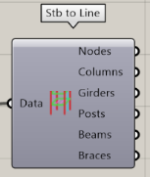
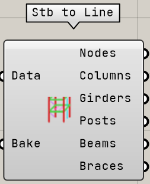
Update Geometry page

diff --git a/website/docs/Component/Geometry.md b/website/docs/Component/Geometry.md
@@ -3,7 +3,7 @@ id: Geometry
 title: Geometry
 ---
 
-読み込んだ STB データから部材を可視化するコンポーネントのカテゴリ
+読み込んだ STB データから部材を可視化、Bake するコンポーネントのカテゴリ
 
 ---
 
@@ -11,11 +11,12 @@ title: Geometry
 
 ![](../../images/Component/StbToLine.png)
 
-部材をラインで表示する
+部材を Line で表示する
 
 |入力|説明|
 |---|:---:|
 |Data|Load STB file コンポーネントの Data 出力を入力|
+|Bake|各 Line を断面符号ごとにレイヤー分けして Bake する|
 
 |出力|説明|
 |---|:---:|
@@ -32,21 +33,22 @@ title: Geometry
 
 ![](../../images/Component/StbToBrep.png)
 
-部材を Surface で表示する
+部材を Brep で表示する
 
 |入力|説明|
 |---|:---:|
 |Data|Load STB file コンポーネントの Data 出力を入力|
+|Bake|各 Brep を断面符号ごとにレイヤー分けして Bake する|
 
 |出力|説明|
 |---|:---:|
-|Columns| 柱形状を表す Surface のリストを出力|
-|Girders| 大梁形状を表す Surface のリストを出力|
-|Posts| 間柱形状を表す Surface のリストを出力|
-|Beams| 小梁形状を表す Surface のリストを出力|
-|Braces| ブレース形状を表す Surface のリストを出力|
-|Slabs| スラブ形状を表す Surface のリストを出力|
-|Walls| 壁形状を表す Surface のリストを出力|
+|Columns| 柱形状を表す Brep のリストを出力|
+|Girders| 大梁形状を表す Brep のリストを出力|
+|Posts| 間柱形状を表す Brep のリストを出力|
+|Beams| 小梁形状を表す Brep のリストを出力|
+|Braces| ブレース形状を表す Brep のリストを出力|
+|Slabs| スラブ形状を表す Brep のリストを出力|
+|Walls| 壁形状を表す Brep のリストを出力|
 
 ### 表示仕様
 
